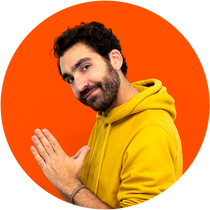
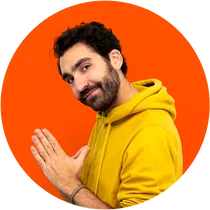
feat(): Optimise l'image de profil et améliore l'accessibilité du header

diff --git a/src/style/global.css b/src/style/global.css
@@ -1,10 +1,13 @@
 * {
     font-family: -apple-system,BlinkMacSystemFont,Segoe UI,Helvetica,Arial,Inter,sans-serif;
-    background-color: white;
     font-size: 16px;
     line-height: 1.5rem;
 
     color: rgba(3, 9, 17, 0.92);
+}
+
+body {
+    background-color: white;
 }
 
 h1 {
